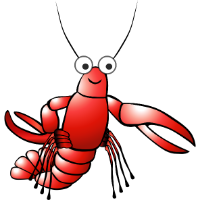
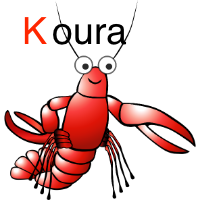
renaming images

Changed region(s): [[0.24, 0.12, 0.63, 0.24], [0.12, 0.06, 0.24, 0.24]]

diff --git a/state/index.js b/state/index.js
@@ -8,7 +8,6 @@ module.exports = {
       lowercase: "a",
       capitalSound: "/sounds/capitalSounds/A.mp3",
       lowerSound: "/sounds/lowerSounds/a.mp3",
-      word: "Āniwaniwa",
       wordImage: "images/words/aniwaniwa.png",
       wordSound: "/sounds/aniwaniwa.mp3",
       multimedia: "/multimedia/aniwaniwa.webm",
@@ -20,7 +19,6 @@ module.exports = {
       lowercase: "e",
       capitalSound: "/sounds/capitalSounds/E.mp3",
       lowerSound: "/sounds/lowerSounds/e.mp3",
-      word: "Ēkara",
       wordImage: "images/words/ekara.png",
       wordSound: "/sounds/ekara.mp3",
       multimedia: "/multimedia/aniwaniwa.webm",
@@ -32,7 +30,6 @@ module.exports = {
       lowercase: "h",
       capitalSound: "/sounds/capitalSounds/H.mp3",
       lowerSound: "/sounds/lowerSounds/h.mp3",
-      word: "Hōiho",
       wordImage: "images/words/hoiho.png",
       wordSound: "/sounds/hoiho.mp3",
       multimedia: "/multimedia/aniwaniwa.webm",
@@ -44,7 +41,6 @@ module.exports = {
       lowercase: "i",
       capitalSound: "/sounds/capitalSounds/I.mp3",
       lowerSound: "/sounds/lowerSounds/i.mp3",
-      word: "Ika",
       wordImage: "images/words/ika.png",
       wordSound: "/sounds/ika.mp3",
       multimedia: "/multimedia/aniwaniwa.webm",
@@ -56,7 +52,6 @@ module.exports = {
       lowercase: "k",
       capitalSound: "/sounds/capitalSounds/K.mp3",
       lowerSound: "/sounds/lowerSounds/k.mp3",
-      word: "Kōura",
       wordImage: "images/words/koura.png",
       wordSound: "/sounds/koura.mp3",
       multimedia: "/multimedia/aniwaniwa.webm",
@@ -68,7 +63,6 @@ module.exports = {
       lowercase: "m",
       capitalSound: "/sounds/capitalSounds/M.mp3",
       lowerSound: "/sounds/lowerSounds/m.mp3",
-      word: "Maunga",
       wordImage: "images/words/maunga.png",
       wordSound: "/sounds/maunga.mp3",
       multimedia: "/multimedia/aniwaniwa.webm",
@@ -80,7 +74,6 @@ module.exports = {
       lowercase: "n",
       capitalSound: "/sounds/capitalSounds/N.mp3",
       lowerSound: "/sounds/lowerSounds/n.mp3",
-      word: "Nanikoti",
       wordImage: "images/words/nanikoti.png",
       wordSound: "/sounds/nanikoti.mp3",
       multimedia: "/multimedia/aniwaniwa.webm",
@@ -104,7 +97,6 @@ module.exports = {
       lowercase: "o",
       capitalSound: "/sounds/capitalSounds/O.mp3",
       lowerSound: "/sounds/lowerSounds/o.mp3",
-      word: "Oru",
       wordImage: "images/words/oru.png",
       wordSound: "/sounds/oru.mp3",
       multimedia: "/multimedia/aniwaniwa.webm",
@@ -116,7 +108,6 @@ module.exports = {
       lowercase: "p",
       capitalSound: "/sounds/capitalSounds/P.mp3",
       lowerSound: "/sounds/lowerSounds/p.mp3",
-      word: "Pūngāwerewere",
       wordImage: "images/words/pungawerewere.png",
       wordSound: "/sounds/pungawerewere.mp3",
       multimedia: "/multimedia/aniwaniwa.webm",
@@ -128,7 +119,6 @@ module.exports = {
       lowercase: "r",
       capitalSound: "/sounds/capitalSounds/R.mp3",
       lowerSound: "/sounds/lowerSounds/r.mp3",
-      word: "Ruru",
       wordImage: "images/words/ruru.png",
       wordSound: "/sounds/ruru.mp3",
       multimedia: "/multimedia/aniwaniwa.webm",
@@ -140,7 +130,6 @@ module.exports = {
       lowercase: "t",
       capitalSound: "/sounds/capitalSounds/T.mp3",
       lowerSound: "/sounds/lowerSounds/t.mp3",
-      word: "Tāne-mahuta",
       wordImage: "images/words/tanemahuta.png",
       wordSound: "/sounds/tanemahuta.mp3",
       multimedia: "/multimedia/aniwaniwa.webm",
@@ -152,7 +141,6 @@ module.exports = {
       lowercase: "u",
       capitalSound: "/sounds/capitalSounds/U.mp3",
       lowerSound: "/sounds/lowerSounds/u.mp3",
-      word: "Ua",
       wordImage: "images/words/ua.png",
       wordSound: "/sounds/ua.mp3",
       multimedia: "/multimedia/aniwaniwa.webm",
@@ -164,7 +152,6 @@ module.exports = {
       lowercase: "w",
       capitalSound: "/sounds/capitalSounds/W.mp3",
       lowerSound: "/sounds/lowerSounds/w.mp3",
-      word: "Wētā",
       wordImage: "images/words/weta.png",
       wordSound: "/sounds/weta.mp3",
       multimedia: "/multimedia/aniwaniwa.webm",
@@ -176,7 +163,6 @@ module.exports = {
       lowercase: "wh",
       capitalSound: "/sounds/capitalSounds/WH.mp3",
       lowerSound: "/sounds/lowerSounds/wh.mp3",
-      word: "Whānau",
       wordImage: "images/words/whanau.png",
       wordSound: "/sounds/whanau.mp3",
       multimedia: "/multimedia/aniwaniwa.webm",

diff --git a/src/components/Displayletter.js b/src/components/Displayletter.js
@@ -98,15 +98,10 @@ class Displayletter extends React.Component {
 
         <br />
 
-        <button
-          type="button"
-          className="btn btn-xl display"
+        <img src={singleLetter.wordImage} alt=""
           onClick={() =>
-            this.playWord(word)}>
-          {singleLetter.word}
-        </button>
-
-        <img src={singleLetter.wordImage} alt="" />
+          this.playWord(word)}
+        />
 
         </div>
         <div className="col-sm-12">
